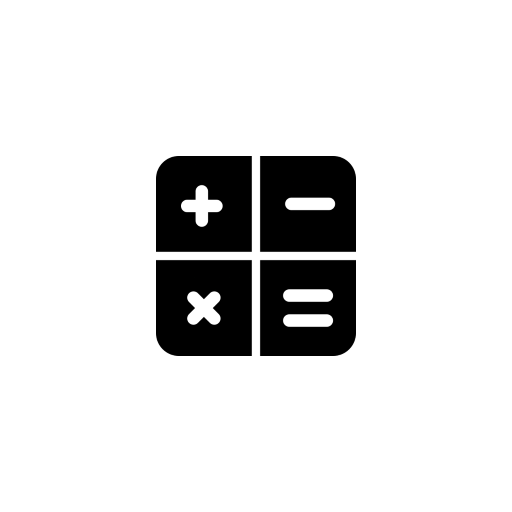
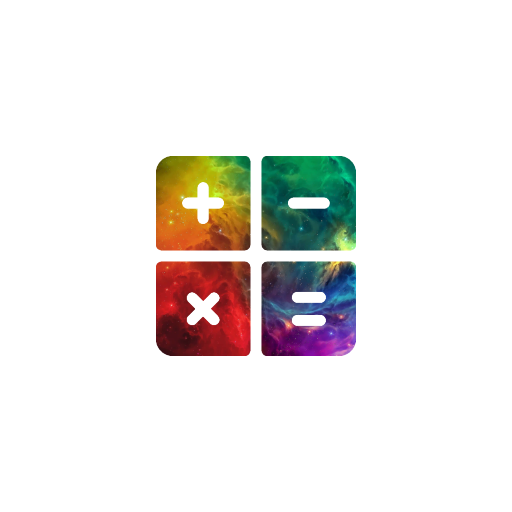
v1.0.0 Release

Changed region(s): [[0.2812, 0.2812, 0.7188, 0.7188]]

diff --git a/lib/about/about.dart b/lib/about/about.dart
@@ -82,11 +82,11 @@ class _AboutPageState extends State<AboutPage> {
                 spacing(0.01),
                 Text(
                   '© 2020-24 Astro Gen-Z',
-                  style: TextStyle(fontSize: 16, color: globals.textColor),
+                  style: TextStyle(fontSize: 18, color: globals.textColor),
                 ),
                 Text(
                   'Calculator v${globals.version}',
-                  style: TextStyle(fontSize: 24, color: globals.textColor),
+                  style: TextStyle(fontSize: 25, color: globals.textColor),
                 ),
                 spacing(0.01),
                 webButton("https://astrogenz.wixsite.com/astrogenz", "Website",

diff --git a/lib/main.dart b/lib/main.dart
@@ -8,6 +8,7 @@ void main() async {
   WidgetsFlutterBinding.ensureInitialized();
   await SystemChrome.setPreferredOrientations([
     DeviceOrientation.portraitUp,
+    DeviceOrientation.portraitDown,
   ]);
   await Firebase.initializeApp(
     options: DefaultFirebaseOptions.currentPlatform,

diff --git a/README.md b/README.md
@@ -1,19 +1,28 @@
 # Calculator
+![Banner](<brand/Feature Graphic.png>)
+Looking for a handy math companion?  
+Here is a calculator with all commonly used simple and scientific operations, a currency converter, pleasing dual themes and more.
 
-A Calculator app built for Android using Flutter and Dart. The application has support
-for all simple mathematical operations and also features a dual theme with visually
-appealing light and dark themes. The app uses Firebase Authentication to authenticate user sign in and sign up requests and Cloud Firestore to store the user's calculation history. The user can switch themes, view and delete their calculation history, and log out of their account using the navigation bar at the top of the user interface.
+### Website: https://astrogenz.wixsite.com/astrogenz/calc
+### Google Play: https://play.google.com/store/apps/details?id=com.astrogenz.calculator
+### GitHub Repo: https://github.com/pranav-m-r/Calculator
+
+## Features
+• The app provides support for all simple mathematical operations and scientific functions like the trigonometric, inverse trigonometric and logarithmic functions.  
+• It uses easy and secure Firebase authentication to store and retrieve your calculation history. An app drawer on the left provides access to all these features with a single tap.  
+• A real-time currency converter gives you reliable exchange rates between any two currencies at the time of calculation.  
+• It also features a dual theme with visually appealing light and dark themes.
+
+## Credits
+Thanks to these wonderful people for helping me complete this project!  
+• App Icon Background: [Icon](brand/Background.png) by [Freepik](https://www.freepik.com/icon/calculator_1326142)  
+• App Graphic Foreground: [Image](brand/Foreground.jpg) by [Wallpapers](https://wallpapers.com/wallpapers/colorful-space-3840-x-2160-wallpaper-00om36tb4ezcv74g.html)
 
 ## Screenshots
-
-### Light Theme
-![Light Theme](brand/screenshots/LightTheme.jpg)
-
-### Dark Theme
-![Dark Theme](brand/screenshots/DarkTheme.jpg)
-
-### User History
-![User History](brand/screenshots/History.jpg)
-
-### Authentication
-![Authentication](brand/screenshots/Login.jpg)
+![Screenshot-1](<brand/Screenshots/SS (1).jpg>)
+![Screenshot-2](<brand/Screenshots/SS (2).jpg>)
+![Screenshot-3](<brand/Screenshots/SS (3).jpg>)
+![Screenshot-4](<brand/Screenshots/SS (4).jpg>)
+![Screenshot-5](<brand/Screenshots/SS (5).jpg>)
+![Screenshot-6](<brand/Screenshots/SS (6).png>)
+![Screenshot-7](<brand/Screenshots/SS (7).png>)
